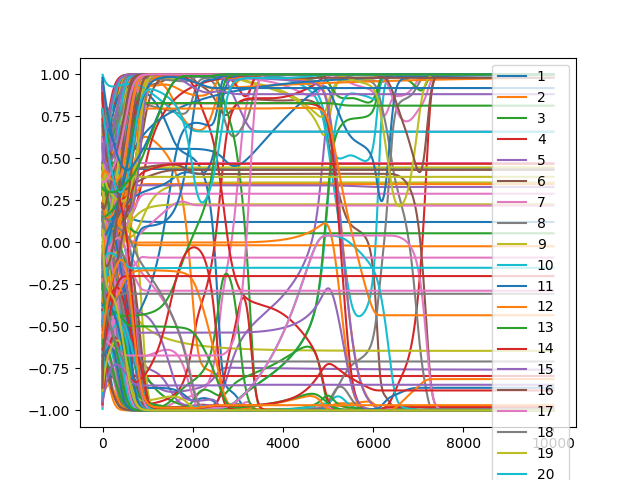
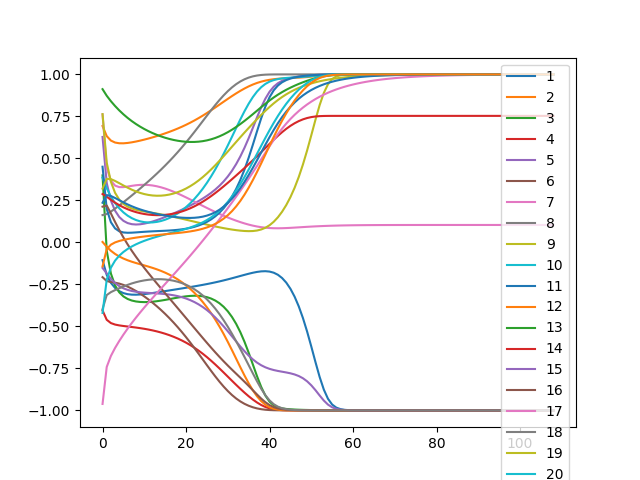
Find smallest working resolution

diff --git a/ode_sat.py b/ode_sat.py
@@ -4,8 +4,8 @@ from matplotlib import pyplot as plt
 
 np.random.seed(0)
 
-class OdeSat:
 
+class OdeSat:
     def __init__(self, clauses: np.ndarray, resolution=10000, time=2):
         self.resolution = resolution
         self.time = time
@@ -18,7 +18,7 @@ class OdeSat:
                 self.c[clause_index][abs(variable) - 1] = 1 if variable > 0 else -1
 
         print(self.c)
-        
+
         # self.c = np.array([
         #     [1, 1, -1],
         #     [1, -1, 1],
@@ -27,23 +27,23 @@ class OdeSat:
         #     [-1, 1, -1],
         #     [-1, -1, 1]
         # ])
-        
+
         # M clauses, I variables
         self.M, self.I = self.c.shape
 
         print(f"M: {self.M}, I: {self.I}")
 
-        self.initial_s = np.random.uniform(-1,1, self.I)
+        self.initial_s = np.random.uniform(-1, 1, self.I)
         self.initial_a = self.time * np.ones(self.M)
         self.initial = np.concatenate((self.initial_s, self.initial_a))
 
-    def K(self, s, a, m, i = None):
+    def K(self, s, a, m, i=None):
         c_vals = np.array(self.c[m])
         if i is not None:
             c_vals[i] = 0
         out = np.prod(1 - c_vals * s)
         return out
-    
+
     def ds_i(self, s, a, i):
         c_vals = np.array(self.c)[:, i]
         K_vals_without_i = np.array([self.K(s, a, m) for m in range(self.M)])
@@ -55,33 +55,60 @@ class OdeSat:
 
     def derivative(self, state, t):
         print(f"t: {t}")
-        s, a = state[:self.I], state[self.I:]
+        s, a = state[: self.I], state[self.I :]
         ds = np.array([self.ds_i(s, a, i) for i in range(len(s))])
         da = np.array([self.da_m(s, a, m) for m in range(len(a))])
 
-        return np.concatenate((ds, da))
+        d = np.concatenate((ds, da))
+        max = np.amax(np.absolute(d))
+        if max > 100:
+            raise Exception(
+                f"Stiff ODE. Step size is too large, leading to dx of {max}"
+            )
+        return d
 
     def integrate(self):
-        t = np.linspace(0, self.time, self.resolution)
-        # timeseries = odeint(self.derivative, self.initial, t)
+        try:
+            t = np.linspace(0, self.time, self.resolution)
+            # timeseries = odeint(self.derivative, self.initial, t)
 
-        dt = t[1] - t[0]
-        timeseries = np.empty((len(t), len(self.initial)))
-        timeseries[0] = self.initial
-        for i in range(1, len(t)):
-            timeseries[i] = timeseries[i-1] + dt * self.derivative(timeseries[i-1], t[i-1])
+            dt = t[1] - t[0]
+            timeseries = np.empty((len(t), len(self.initial)))
+            timeseries[0] = self.initial
+            for i in range(1, len(t)):
+                timeseries[i] = timeseries[i - 1] + dt * self.derivative(
+                    timeseries[i - 1], t[i - 1]
+                )
 
-        return timeseries[:,:self.I]
+            return timeseries[:, : self.I]
+        except Exception:
+            raise
 
     def run(self):
         timeseries = self.integrate()
         return timeseries
 
 
+def test_stiffness(clauses, time_limit=1):
+    res = 10
+    while res < 100000:
+        try:
+            ode_sat = OdeSat(clauses=f1.clauses, resolution=res, time=time_limit)
+            ts = ode_sat.integrate()
+        except:
+            print("SKIP")
+            res = int(res * 1.5)
+            continue
+        return res
+
+
 if __name__ == "__main__":
     from pysat.formula import CNF
-    f1 = CNF(from_file='test_files/coloring_usa.cnf')
-    ode_sat = OdeSat(clauses=f1.clauses)
+
+    f1 = CNF(from_file="test_files/coloring_basic.cnf")
+    res = test_stiffness(f1.clauses)
+    print("RES:", res)
+    ode_sat = OdeSat(clauses=f1.clauses, resolution=109, time=1)
     ts = ode_sat.integrate()
     print(ts)
     last = ts[-1]
@@ -89,5 +116,5 @@ if __name__ == "__main__":
     print([index + 1 if value > 0 else -index - 1 for index, value in enumerate(last)])
     plt.plot(ts)
     plt.ylim(-1.1, 1.1)
-    plt.legend(np.arange(ode_sat.I)+1)
+    plt.legend(np.arange(ode_sat.I) + 1)
     plt.savefig("out/output_usa_euler_2s_10000res.png")

diff --git a/solver.py b/solver.py
@@ -1,6 +1,7 @@
 from pysat.formula import CNF, WCNF
 from pysat.examples.fm import FM
 
+
 def solve(file_name: str):
     f1 = CNF(from_file=file_name)
     wf1 = WCNF()
@@ -8,13 +9,14 @@ def solve(file_name: str):
     with FM(wf1) as fm:
         print(fm.compute())
         return fm.model
-    
+
+
 def verify(file_name: str, result: list):
     f1 = CNF(from_file=file_name)
     for clause in f1.clauses:
         clause_result = False
         for variable in clause:
-            value = result[abs(variable)-1] > 0
+            value = result[abs(variable) - 1] > 0
             if variable > 0:
                 clause_result = clause_result or value
             else:
@@ -22,7 +24,8 @@ def verify(file_name: str, result: list):
         if not clause_result:
             return False
     return True
-    
+
+
 if __name__ == "__main__":
-    soln = solve('test_files/coloring.cnf')
+    soln = solve("test_files/coloring_basic.cnf")
     print(soln)
